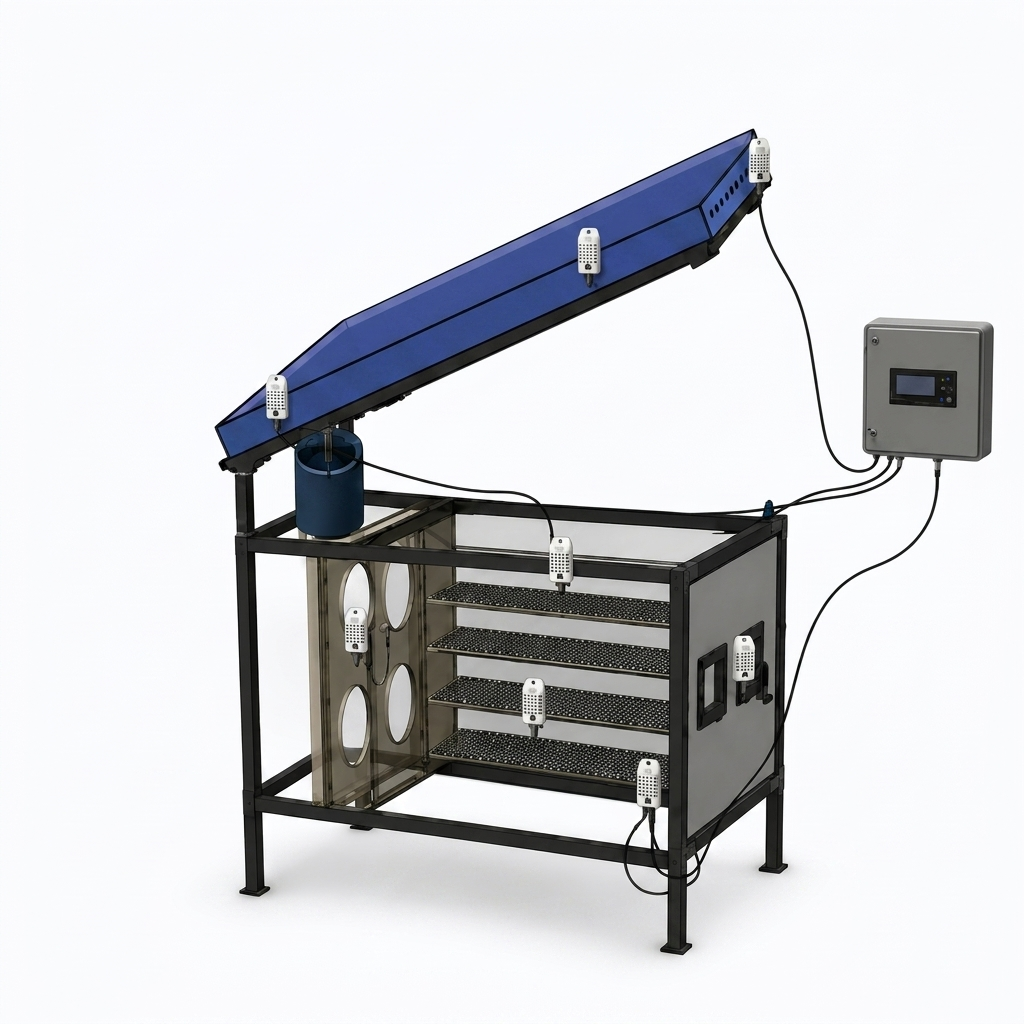
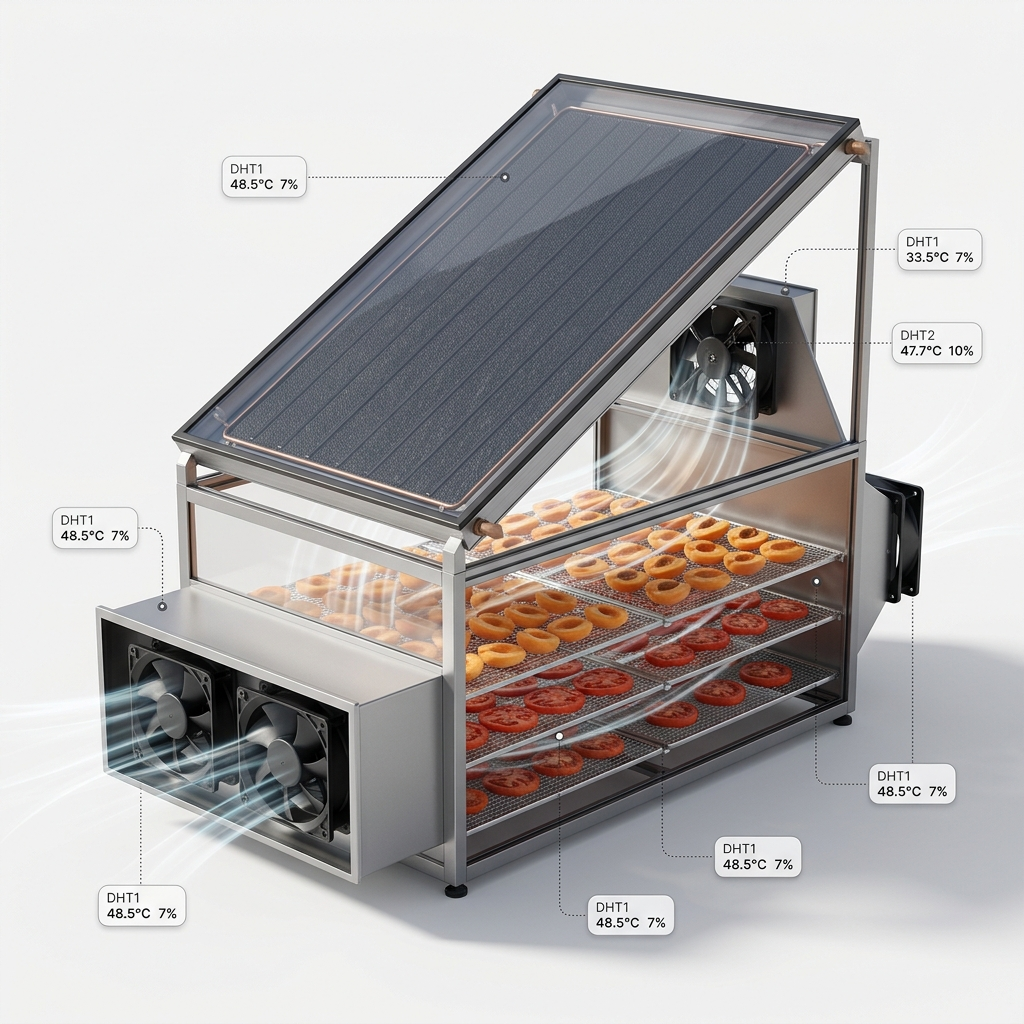
feat: integrate ultra-realistic 3D solar dryer diagram, dynamic CFD-style airflow animations, and precise sensor overlays

diff --git a/src/components/Dashboard.tsx b/src/components/Dashboard.tsx
@@ -34,7 +34,8 @@ import {
   Sliders,
   FileText,
   AlertTriangle,
-  ShieldCheck
+  ShieldCheck,
+  X
 } from "lucide-react";
 import { format } from "date-fns";
 
@@ -83,14 +84,14 @@ const SENSOR_COLORS: Record<string, string> = {
 };
 
 const SENSOR_INFO: Record<string, { x: number; y: number; labelX: number; labelY: number; name: string }> = {
-  DHT1: { x: 74, y: 12, labelX: 86, labelY: 13, name: "Entrée Capteur Solaire (Haut)" },
-  DHT2: { x: 54, y: 22, labelX: 38, labelY: 13, name: "Milieu Capteur Solaire" },
-  DHT3: { x: 27, y: 38, labelX: 10, labelY: 25, name: "Sortie Capteur Solaire (Bas)" },
-  DHT4: { x: 34, y: 61, labelX: 10, labelY: 66, name: "Entrée Chambre Séchage" },
-  DHT5: { x: 52, y: 68, labelX: 42, labelY: 89, name: "Milieu Chambre Séchage" },
-  DHT6: { x: 54, y: 54, labelX: 62, labelY: 39, name: "Plafond Chambre Séchage" },
-  DHT7: { x: 63, y: 76, labelX: 74, labelY: 89, name: "Bas Chambre Séchage" },
-  DHT8: { x: 72, y: 63, labelX: 88, labelY: 67, name: "Sortie Chambre Séchage" },
+  DHT1: { x: 82.5, y: 14.5, labelX: 91.8, labelY: 24.5, name: "Entrée Capteur Solaire (Haut)" },
+  DHT2: { x: 49.0, y: 17.5, labelX: 25.8, labelY: 17.2, name: "Milieu Capteur Solaire" },
+  DHT3: { x: 25.5, y: 45.0, labelX: 9.3, labelY: 51.5, name: "Sortie Capteur Solaire (Bas)" },
+  DHT4: { x: 18.0, y: 68.0, labelX: 13.8, labelY: 88.5, name: "Entrée Chambre Séchage" },
+  DHT5: { x: 52.0, y: 62.0, labelX: 74.0, labelY: 83.5, name: "Milieu Chambre Séchage" },
+  DHT6: { x: 65.5, y: 42.0, labelX: 91.8, labelY: 33.5, name: "Plafond Chambre Séchage" },
+  DHT7: { x: 60.0, y: 78.0, labelX: 61.5, labelY: 89.0, name: "Bas Chambre Séchage" },
+  DHT8: { x: 88.0, y: 50.0, labelX: 89.0, labelY: 76.5, name: "Sortie Chambre Séchage" },
 };
 
 // Helper for physical data validation (DHT22 sensor noise filter)
@@ -220,6 +221,9 @@ export default function Dashboard() {
 
   /* ---------- Interactive Sensor Diagram States ---------- */
   const [hoveredSensor, setHoveredSensor] = useState<string | null>(null);
+
+  /* ---------- Schema Modal State ---------- */
+  const [showSchemaModal, setShowSchemaModal] = useState(false);
 
   /* ---------- Real-Time Logs / Explorer States ---------- */
   const [paginatedData, setPaginatedData] = useState<PivotRow[]>([]);
@@ -648,6 +652,264 @@ export default function Dashboard() {
                           opacity: hoveredSensor ? 0.95 : 1,
                         }}
                       />
+
+                      {/* Controller Box Hotspot */}
+                      <div
+                        className="absolute rounded-lg border-2 border-dashed border-transparent hover:border-orange-500/65 hover:bg-orange-500/10 transition-all cursor-pointer flex items-center justify-center group z-35"
+                        style={{
+                          left: "83.5%",
+                          top: "41.5%",
+                          width: "13.5%",
+                          height: "17.5%",
+                        }}
+                        onClick={() => setShowSchemaModal(true)}
+                        title="Cliquez pour voir le schéma d'architecture système"
+                      >
+                        {/* Pulse effect to draw attention */}
+                        <span className="absolute flex h-2.5 w-2.5 top-2.5 right-2.5">
+                          <span className="animate-ping absolute inline-flex h-full w-full rounded-full bg-orange-500 opacity-75"></span>
+                          <span className="relative inline-flex rounded-full h-2.5 w-2.5 bg-orange-500/85"></span>
+                        </span>
+                        
+                        {/* Micro-tooltip on hover */}
+                        <div className="absolute opacity-0 group-hover:opacity-100 transition-opacity duration-200 bottom-full mb-2 bg-slate-900/95 text-white border border-slate-800 text-[9px] font-bold uppercase tracking-wider px-2 py-1 rounded shadow-lg whitespace-nowrap pointer-events-none">
+                          Architecture Système
+                        </div>
+                      </div>
+
+                      {/* --- SYNOPTIC ANIMATIONS & STYLES --- */}
+                      <style>{`
+                        @keyframes flow {
+                          to {
+                            stroke-dashoffset: -20;
+                          }
+                        }
+                        .flow-line {
+                          stroke-dasharray: 6, 6;
+                          animation: flow 1.2s linear infinite;
+                        }
+                        .flow-line-fast {
+                          stroke-dasharray: 6, 6;
+                          animation: flow 0.8s linear infinite;
+                        }
+                        .flow-line-medium {
+                          stroke-dasharray: 6, 6;
+                          animation: flow 1.2s linear infinite;
+                        }
+                        .flow-line-slow {
+                          stroke-dasharray: 6, 6;
+                          animation: flow 1.8s linear infinite;
+                        }
+                        @keyframes fan-spin {
+                          from { transform: rotate(0deg); }
+                          to { transform: rotate(360deg); }
+                        }
+                        .fan-spin-fast {
+                          animation: fan-spin 0.4s linear infinite;
+                          transform-origin: center;
+                        }
+                      `}</style>
+
+                      {/* 1. Animated Airflow paths (Thermodynamically color-coded wind tunnel simulation matching CFD styles) */}
+                      <svg className="absolute inset-0 w-full h-full pointer-events-none select-none z-25" viewBox="0 0 100 100" preserveAspectRatio="none">
+                        <defs>
+                          {/* Thermodynamically accurate gradients */}
+                          {/* Collector: Cool air heats up from inlet (Blue) to exit (Red) */}
+                          <linearGradient id="collector-flow-grad" x1="100%" y1="0%" x2="0%" y2="100%">
+                            <stop offset="0%" stopColor="#0ea5e9" stopOpacity="0.8" />
+                            <stop offset="50%" stopColor="#eab308" stopOpacity="0.8" />
+                            <stop offset="100%" stopColor="#ef4444" stopOpacity="0.8" />
+                          </linearGradient>
+                          
+                          {/* Chamber Trays: Hot air enters (Red/Orange) and cools down due to evaporative cooling (Cyan/Blue) */}
+                          <linearGradient id="tray-flow-grad" x1="0%" y1="0%" x2="100%" y2="0%">
+                            <stop offset="0%" stopColor="#ef4444" stopOpacity="0.75" />
+                            <stop offset="30%" stopColor="#f97316" stopOpacity="0.75" />
+                            <stop offset="70%" stopColor="#0ea5e9" stopOpacity="0.75" />
+                            <stop offset="100%" stopColor="#2563eb" stopOpacity="0.75" />
+                          </linearGradient>
+
+                          <filter id="particle-glow" x="-50%" y="-50%" width="200%" height="200%">
+                            <feGaussianBlur stdDeviation="0.4" result="blur" />
+                            <feComposite in="SourceGraphic" in2="blur" operator="over" />
+                          </filter>
+
+                          <marker id="small-arrow-cool" viewBox="0 0 10 10" refX="6" refY="5" markerWidth="4" markerHeight="4" orient="auto-start-reverse">
+                            <path d="M 0 1.5 L 8 5 L 0 8.5 z" fill="#0ea5e9" />
+                          </marker>
+                          <marker id="small-arrow-hot" viewBox="0 0 10 10" refX="6" refY="5" markerWidth="4" markerHeight="4" orient="auto-start-reverse">
+                            <path d="M 0 1.5 L 8 5 L 0 8.5 z" fill="#ef4444" />
+                          </marker>
+                          <marker id="small-arrow-cool-blue" viewBox="0 0 10 10" refX="6" refY="5" markerWidth="4" markerHeight="4" orient="auto-start-reverse">
+                            <path d="M 0 1.5 L 8 5 L 0 8.5 z" fill="#2563eb" />
+                          </marker>
+                        </defs>
+                        
+                        {/* Wind Layer 1: Collector (Cool air heating up) */}
+                        <path
+                          d="M 18 68 C 22 55, 24 48, 25.5 45 M 25.5 45 L 82.5 14.5"
+                          fill="none"
+                          stroke="url(#collector-flow-grad)"
+                          strokeWidth="0.8"
+                          className="flow-line-fast"
+                          markerEnd="url(#small-arrow-hot)"
+                        />
+                        
+                        {/* Collector Flow Particles (glowing bubbles travelling down) */}
+                        <circle r="0.6" fill="#e0f2fe" filter="url(#particle-glow)">
+                          <animateMotion dur="2.4s" repeatCount="indefinite" path="M 18 68 C 22 55, 24 48, 25.5 45 M 25.5 45 L 82.5 14.5" />
+                        </circle>
+                        <circle r="0.4" fill="#fef08a" filter="url(#particle-glow)">
+                          <animateMotion dur="2.4s" begin="0.8s" repeatCount="indefinite" path="M 18 68 C 22 55, 24 48, 25.5 45 M 25.5 45 L 82.5 14.5" />
+                        </circle>
+                        <circle r="0.5" fill="#fecaca" filter="url(#particle-glow)">
+                          <animateMotion dur="2.4s" begin="1.6s" repeatCount="indefinite" path="M 18 68 C 22 55, 24 48, 25.5 45 M 25.5 45 L 82.5 14.5" />
+                        </circle>
+                        
+                        {/* Junction Downflow (Transition duct to chamber) */}
+                        <path
+                          d="M 82.5 14.5 C 84 15, 78 28, 71 34"
+                          fill="none"
+                          stroke="#ef4444"
+                          strokeWidth="0.8"
+                          className="flow-line-fast"
+                          markerEnd="url(#small-arrow-hot)"
+                        />
+                        <circle r="0.6" fill="#fecaca" filter="url(#particle-glow)">
+                          <animateMotion dur="0.8s" repeatCount="indefinite" path="M 82.5 14.5 C 84 15, 78 28, 71 34" />
+                        </circle>
+                        
+                        {/* Chamber Cross-Tray flows (Parallel drying streams cooling as they pass trays) */}
+                        {/* Tray 1 Stream */}
+                        <path
+                          d="M 71 34 C 65 42, 60 50, 50 50 L 35 50"
+                          fill="none"
+                          stroke="url(#tray-flow-grad)"
+                          strokeWidth="0.6"
+                          className="flow-line-slow"
+                          markerEnd="url(#small-arrow-cool-blue)"
+                        />
+                        <circle r="0.5" fill="#fde047" filter="url(#particle-glow)">
+                          <animateMotion dur="1.8s" repeatCount="indefinite" path="M 71 34 C 65 42, 60 50, 50 50 L 35 50" />
+                        </circle>
+
+                        {/* Tray 2 Stream */}
+                        <path
+                          d="M 71 34 C 65 42, 60 58, 50 58 L 35 58"
+                          fill="none"
+                          stroke="url(#tray-flow-grad)"
+                          strokeWidth="0.6"
+                          className="flow-line-medium"
+                          markerEnd="url(#small-arrow-cool-blue)"
+                        />
+                        <circle r="0.5" fill="#f97316" filter="url(#particle-glow)">
+                          <animateMotion dur="1.4s" repeatCount="indefinite" path="M 71 34 C 65 42, 60 58, 50 58 L 35 58" />
+                        </circle>
+
+                        {/* Tray 3 Stream */}
+                        <path
+                          d="M 71 34 C 65 42, 60 66, 50 66 L 35 66"
+                          fill="none"
+                          stroke="url(#tray-flow-grad)"
+                          strokeWidth="0.6"
+                          className="flow-line-slow"
+                          markerEnd="url(#small-arrow-cool-blue)"
+                        />
+                        <circle r="0.5" fill="#fecaca" filter="url(#particle-glow)">
+                          <animateMotion dur="2.0s" repeatCount="indefinite" path="M 71 34 C 65 42, 60 66, 50 66 L 35 66" />
+                        </circle>
+
+                        {/* Tray 4 Stream */}
+                        <path
+                          d="M 71 34 C 65 42, 60 74, 50 74 L 35 74"
+                          fill="none"
+                          stroke="url(#tray-flow-grad)"
+                          strokeWidth="0.6"
+                          className="flow-line-medium"
+                          markerEnd="url(#small-arrow-cool-blue)"
+                        />
+                        <circle r="0.5" fill="#ef4444" filter="url(#particle-glow)">
+                          <animateMotion dur="1.5s" repeatCount="indefinite" path="M 71 34 C 65 42, 60 74, 50 74 L 35 74" />
+                        </circle>
+                        
+                        {/* Exhaust Outlet flow (Saturated humid air exiting) */}
+                        <path
+                          d="M 35 74 C 45 78, 75 70, 88 51.5"
+                          fill="none"
+                          stroke="#2563eb"
+                          strokeWidth="0.8"
+                          className="flow-line-medium"
+                          markerEnd="url(#small-arrow-cool-blue)"
+                        />
+                        <circle r="0.6" fill="#93c5fd" filter="url(#particle-glow)">
+                          <animateMotion dur="1.1s" repeatCount="indefinite" path="M 35 74 C 45 78, 75 70, 88 51.5" />
+                        </circle>
+                      </svg>
+
+                      {/* 2. Transparent 7-blade Spinning Propellers (Overlaying the 3D axial fans in the background render) */}
+                      {/* Fan 1 (Inlet Left) */}
+                      <div className="absolute z-30 flex items-center justify-center bg-transparent pointer-events-none" style={{ left: "15.6%", top: "69.2%", width: "8.5%", height: "8.5%", transform: "translate(-50%, -50%)" }} title="Axial Fan 1 (Forced Intake)">
+                        <svg className="w-full h-full text-slate-800/70 fan-spin-fast" viewBox="0 0 24 24" fill="none">
+                          <circle cx="12" cy="12" r="2.2" fill="#000" />
+                          <path d="M12 12 C12 7, 14.5 5, 13 3 C11 5, 12 7, 12 12" fill="currentColor" />
+                          <path d="M12 12 C15.5 9.5, 18 10, 19 8 C17.5 7.5, 15.5 9.5, 12 12" fill="currentColor" />
+                          <path d="M12 12 C17 13.5, 18.5 16, 20 15 C18.5 13.5, 17 13.5, 12 12" fill="currentColor" />
+                          <path d="M12 12 C14.5 16.5, 14.5 19, 13.5 21 C12.5 19, 13.5 16.5, 12 12" fill="currentColor" />
+                          <path d="M12 12 C9.5 15.5, 8.5 18, 6.5 19 C7 17.5, 9 15.5, 12 12" fill="currentColor" />
+                          <path d="M12 12 C7 12, 5 9.5, 3.5 10.5 C5 11, 7 12, 12 12" fill="currentColor" />
+                          <path d="M12 12 C8 8, 7 5.5, 5.5 4 C6.5 5, 8 8, 12 12" fill="currentColor" />
+                        </svg>
+                      </div>
+                      
+                      {/* Fan 2 (Inlet Right) */}
+                      <div className="absolute z-30 flex items-center justify-center bg-transparent pointer-events-none" style={{ left: "27.5%", top: "73.5%", width: "8.5%", height: "8.5%", transform: "translate(-50%, -50%)" }} title="Axial Fan 2 (Forced Intake)">
+                        <svg className="w-full h-full text-slate-800/70 fan-spin-fast" viewBox="0 0 24 24" fill="none">
+                          <circle cx="12" cy="12" r="2.2" fill="#000" />
+                          <path d="M12 12 C12 7, 14.5 5, 13 3 C11 5, 12 7, 12 12" fill="currentColor" />
+                          <path d="M12 12 C15.5 9.5, 18 10, 19 8 C17.5 7.5, 15.5 9.5, 12 12" fill="currentColor" />
+                          <path d="M12 12 C17 13.5, 18.5 16, 20 15 C18.5 13.5, 17 13.5, 12 12" fill="currentColor" />
+                          <path d="M12 12 C14.5 16.5, 14.5 19, 13.5 21 C12.5 19, 13.5 16.5, 12 12" fill="currentColor" />
+                          <path d="M12 12 C9.5 15.5, 8.5 18, 6.5 19 C7 17.5, 9 15.5, 12 12" fill="currentColor" />
+                          <path d="M12 12 C7 12, 5 9.5, 3.5 10.5 C5 11, 7 12, 12 12" fill="currentColor" />
+                          <path d="M12 12 C8 8, 7 5.5, 5.5 4 C6.5 5, 8 8, 12 12" fill="currentColor" />
+                        </svg>
+                      </div>
+
+                      {/* Fan 3 (Transition Duct Assist) */}
+                      <div className="absolute z-30 flex items-center justify-center bg-transparent pointer-events-none" style={{ left: "71.0%", top: "34.0%", width: "11%", height: "11%", transform: "translate(-50%, -50%)" }} title="Axial Fan 3 (Transfer Assist)">
+                        <svg className="w-full h-full text-slate-800/70 fan-spin-fast" viewBox="0 0 24 24" fill="none">
+                          <circle cx="12" cy="12" r="2.2" fill="#000" />
+                          <path d="M12 12 C12 7, 14.5 5, 13 3 C11 5, 12 7, 12 12" fill="currentColor" />
+                          <path d="M12 12 C15.5 9.5, 18 10, 19 8 C17.5 7.5, 15.5 9.5, 12 12" fill="currentColor" />
+                          <path d="M12 12 C17 13.5, 18.5 16, 20 15 C18.5 13.5, 17 13.5, 12 12" fill="currentColor" />
+                          <path d="M12 12 C14.5 16.5, 14.5 19, 13.5 21 C12.5 19, 13.5 16.5, 12 12" fill="currentColor" />
+                          <path d="M12 12 C9.5 15.5, 8.5 18, 6.5 19 C7 17.5, 9 15.5, 12 12" fill="currentColor" />
+                          <path d="M12 12 C7 12, 5 9.5, 3.5 10.5 C5 11, 7 12, 12 12" fill="currentColor" />
+                          <path d="M12 12 C8 8, 7 5.5, 5.5 4 C6.5 5, 8 8, 12 12" fill="currentColor" />
+                        </svg>
+                      </div>
+
+                      {/* Fan 4 (Outlet Exhaust) */}
+                      <div className="absolute z-30 flex items-center justify-center bg-transparent pointer-events-none" style={{ left: "88.0%", top: "51.5%", width: "10%", height: "10%", transform: "translate(-50%, -50%)" }} title="Axial Fan 4 (Exhaust)">
+                        <svg className="w-full h-full text-slate-800/70 fan-spin-fast" viewBox="0 0 24 24" fill="none">
+                          <circle cx="12" cy="12" r="2.2" fill="#000" />
+                          <path d="M12 12 C12 7, 14.5 5, 13 3 C11 5, 12 7, 12 12" fill="currentColor" />
+                          <path d="M12 12 C15.5 9.5, 18 10, 19 8 C17.5 7.5, 15.5 9.5, 12 12" fill="currentColor" />
+                          <path d="M12 12 C17 13.5, 18.5 16, 20 15 C18.5 13.5, 17 13.5, 12 12" fill="currentColor" />
+                          <path d="M12 12 C14.5 16.5, 14.5 19, 13.5 21 C12.5 19, 13.5 16.5, 12 12" fill="currentColor" />
+                          <path d="M12 12 C9.5 15.5, 8.5 18, 6.5 19 C7 17.5, 9 15.5, 12 12" fill="currentColor" />
+                          <path d="M12 12 C7 12, 5 9.5, 3.5 10.5 C5 11, 7 12, 12 12" fill="currentColor" />
+                          <path d="M12 12 C8 8, 7 5.5, 5.5 4 C6.5 5, 8 8, 12 12" fill="currentColor" />
+                        </svg>
+                      </div>
+
+                      {/* 3. Premium Green Product Badges near trays (Typography-based clean labels) */}
+                      <div className="absolute z-30 bg-emerald-50/90 backdrop-blur-sm border border-emerald-200/80 text-emerald-800 text-[9px] font-extrabold uppercase tracking-wider py-0.5 px-2 rounded-md shadow-sm pointer-events-none transition-all duration-200" style={{ left: "64%", top: "54%" }}>
+                        Produit : Tranches d'abricot
+                      </div>
+                      <div className="absolute z-30 bg-emerald-50/90 backdrop-blur-sm border border-emerald-200/80 text-emerald-800 text-[9px] font-extrabold uppercase tracking-wider py-0.5 px-2 rounded-md shadow-sm pointer-events-none transition-all duration-200" style={{ left: "64%", top: "70%" }}>
+                        Produit : Tranches de tomate
+                      </div>
                       
                       {/* SVG Connecting Lines for Desktop */}
                       <svg className="hidden md:block absolute inset-0 w-full h-full pointer-events-none select-none z-10">
@@ -1843,6 +2105,54 @@ export default function Dashboard() {
           Université de Béchar • Département de Physique & Énergies Renouvelables • Dispositif IoT Séchoir Solaire © {new Date().getFullYear()}
         </footer>
       </div>
+
+      {/* ──── SCHEMA ARCHITECTURE MODAL (LIGHT THEME) ──── */}
+      {showSchemaModal && (
+        <div className="fixed inset-0 z-50 flex items-center justify-center bg-black/60 backdrop-blur-sm p-4 animate-in fade-in duration-200">
+          <div className="bg-white border border-slate-200 rounded-xl max-w-4xl w-full max-h-[90vh] overflow-y-auto shadow-2xl animate-in zoom-in-95 duration-200 flex flex-col">
+            {/* Modal Header */}
+            <div className="sticky top-0 bg-slate-50 border-b border-slate-200 py-3.5 px-5 flex items-center justify-between z-10">
+              <div>
+                <h3 className="text-sm font-bold uppercase tracking-wider text-slate-900 flex items-center gap-2">
+                  <Info className="h-4.5 w-4.5 text-orange-600" />
+                  Schéma d'Architecture Système - Séchoir Solaire
+                </h3>
+                <p className="text-[11px] text-slate-500 mt-0.5 normal-case font-sans">
+                  Spécifications de câblage, broches GPIO de l'ESP32 et communication UART.
+                </p>
+              </div>
+              <button 
+                onClick={() => setShowSchemaModal(false)}
+                className="text-slate-400 hover:text-white transition-all cursor-pointer p-1.5 rounded-lg hover:bg-slate-100"
+              >
+                <X className="h-4.5 w-4.5" />
+              </button>
+            </div>
+            
+            {/* Modal Body */}
+            <div className="p-6 bg-slate-50/50 flex items-center justify-center overflow-hidden">
+              <img 
+                src="/schema_architecture.jpg" 
+                alt="Schéma d'architecture du séchoir solaire" 
+                className="max-w-full max-h-[65vh] object-contain rounded-lg border border-slate-200 shadow-md bg-white"
+              />
+            </div>
+            
+            {/* Modal Footer */}
+            <div className="p-4 bg-slate-50 border-t border-slate-200 flex flex-col sm:flex-row justify-between items-center gap-2.5 text-[10px] text-slate-500 font-mono">
+              <span>Alimentation: 12V DC • Double ESP32 (Transmetteur/Récepteur)</span>
+              <Button
+                variant="outline"
+                size="sm"
+                className="text-[10px] h-7 bg-white hover:bg-slate-50 border-slate-200 text-slate-700"
+                onClick={() => window.open('/schema_architecture.jpg', '_blank')}
+              >
+                Ouvrir dans un nouvel onglet
+              </Button>
+            </div>
+          </div>
+        </div>
+      )}
     </div>
   );
 }

diff --git a/src/app/globals.css b/src/app/globals.css
@@ -1,3 +1,5 @@
+@import url('https://fonts.googleapis.com/css2?family=IBM+Plex+Mono:wght@400;500;600;700&family=IBM+Plex+Sans:wght@400;500;600;700&display=swap');
+
 @import "tailwindcss";
 @import "tw-animate-css";
 @import "shadcn/tailwind.css";
@@ -7,8 +9,8 @@
 @theme inline {
   --color-background: var(--background);
   --color-foreground: var(--foreground);
-  --font-sans: system-ui, -apple-system, BlinkMacSystemFont, "Segoe UI", Roboto, Helvetica, Arial, sans-serif;
-  --font-mono: var(--font-geist-mono);
+  --font-sans: "IBM Plex Sans", system-ui, -apple-system, BlinkMacSystemFont, "Segoe UI", Roboto, sans-serif;
+  --font-mono: "IBM Plex Mono", monospace;
   --font-heading: var(--font-sans);
   --color-sidebar-ring: var(--sidebar-ring);
   --color-sidebar-border: var(--sidebar-border);
